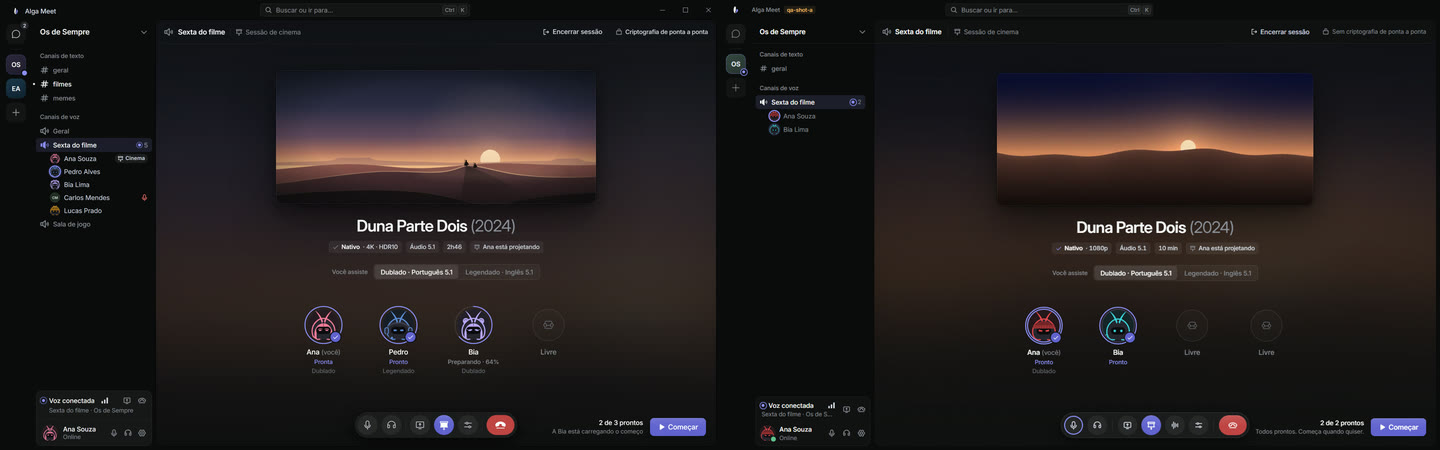
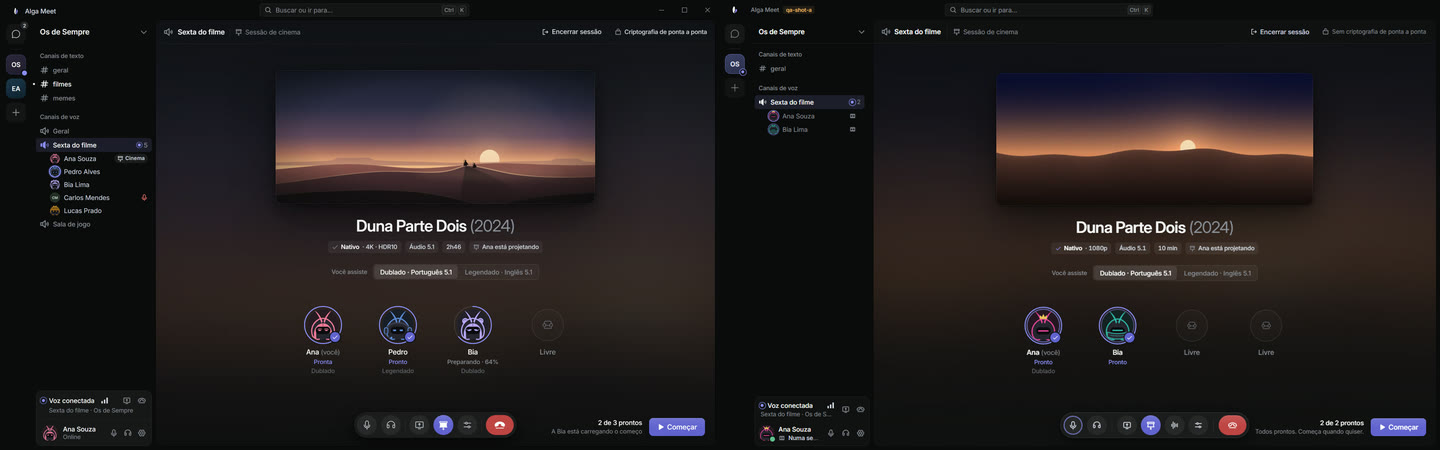
docs(screenshots): cinema v1 side by side with the approved mockups
- Harness: engineering mode from the menu, reduced motion (05, 07, countdown),
  960x600, real fullscreen, host away, the ticket at the end of a film, and a series
  run (mini while off the call's screen, the credits card, the switch to S01E03
  checked on the guest's window). Composites keep each side's aspect.
- New composites: 10-proximo-episodio, 11-canhoto, small-window(-pausa), fullscreen
  and the reduced-motion set; the batch A set re-captured.
- Fixes from the captures: the top bar stays up with the next-episode card, filled
  play icon, the engineering exit button no longer covers the stage, the voice dot
  ring on the ticket, the kept art is per episode.

diff --git a/apps/desktop/src/renderer/src/features/cinema/room/CinemaRoom.tsx b/apps/desktop/src/renderer/src/features/cinema/room/CinemaRoom.tsx
@@ -102,7 +102,8 @@ function Room({ channel, mini, onEngineering }: { channel: Channel; mini: boolea
   const inRoom = IN_ROOM.has(view.screen)
   const shown = inRoom && !mini
   const playingScreen = view.screen === 'watching' || view.screen === 'credits'
-  const idle = useIdle(IDLE_MS, shown && playingScreen)
+  // the next-episode card keeps the top bar up (mockup 10)
+  const idle = useIdle(IDLE_MS, shown && playingScreen && !(view.screen === 'credits' && session.next))
   const uiShown = view.screen !== 'countdown' && !(playingScreen && idle)
   useFilmAudio(audio)
 

diff --git a/apps/desktop/src/renderer/src/features/cinema/room/Credits.tsx b/apps/desktop/src/renderer/src/features/cinema/room/Credits.tsx
@@ -38,7 +38,7 @@ export function NextUp({ session, channel, nextUpS }: { session: CinemaSessionVi
         </div>
         {isHost && (
           <div className={s.nextActions}>
-            <Button variant="primary" icon={Play} onClick={hostSwitchNext}>{t.next.watchNow}</Button>
+            <Button variant="primary" onClick={hostSwitchNext}><Icon icon={Play} size={14} filled />{t.next.watchNow}</Button>
             <Button variant="secondary" onClick={hostCancelNext}>{t.next.cancel}</Button>
           </div>
         )}

diff --git a/apps/desktop/src/renderer/src/features/cinema/room/art.ts b/apps/desktop/src/renderer/src/features/cinema/room/art.ts
@@ -14,7 +14,7 @@ const RETRY_MS = 3_000
 
 /** While seated: fetch the poster and the sprite once each, and tally the reactions. */
 export function useKeepArt(session: CinemaSessionView): void {
-  const key = `${session.sessionId}:${session.film.durationS}`
+  const key = `${session.sessionId}:${session.film.durationS}:${JSON.stringify(session.film.episode)}`
   const sessionId = session.sessionId
   useEffect(() => {
     const cur = useArt.getState()

diff --git a/apps/desktop/src/renderer/src/features/cinema/room/room.module.css b/apps/desktop/src/renderer/src/features/cinema/room/room.module.css
@@ -29,8 +29,9 @@
 }
 .leaveEngineering {
   position: absolute;
-  right: calc(var(--caption-w) + 12px);
-  top: 6px;
+  left: 50%;
+  top: 44px; /* under the engineering stage's own top row, over the film */
+  transform: translateX(-50%);
   z-index: 20;
 }
 .lightHalf,

diff --git a/apps/desktop/src/renderer/src/features/cinema/room/ticket.module.css b/apps/desktop/src/renderer/src/features/cinema/room/ticket.module.css
@@ -358,6 +358,9 @@
   gap: 10px;
   color: var(--text-secondary);
 }
+.goesOn > :first-child {
+  box-shadow: 0 0 0 3px #0f1011, 0 0 0 4.5px rgba(139, 142, 247, 0.55);
+}
 .goesOn b {
   font-weight: 510;
   color: var(--text-primary);
